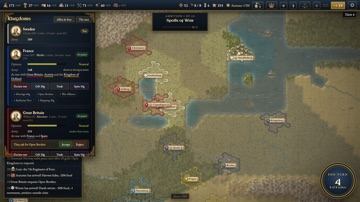
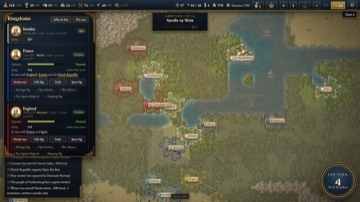
Website: Standards In Smoke's twelve start shots retaken, each start as it stood
Crowns, rulers and towns of their own year in every shot (England and Brandenburg in 1700, Buda the
Turk's in 1683, Stettin Swedish, no Duchy of Milan under the Emperor), and a line saying so.

diff --git a/standards-in-smoke.html b/standards-in-smoke.html
@@ -135,53 +135,53 @@
                       data-caption="The map of Europe: every crown at its own capital, the seas lettered with their old names.">
                 <img src="media/standards-in-smoke/thumbs/11-europe.jpg?v=20261031c" alt="An engraved chart of Europe with the crowns' towns from London to Moscow" loading="lazy">
               </button>
-              <button class="sp-thumb" data-type="image" data-src="media/standards-in-smoke/12-1805.jpg?v=20261031d"
+              <button class="sp-thumb" data-type="image" data-src="media/standards-in-smoke/12-1805.jpg?v=20261104a"
                       data-caption="1805: Austria between France and Russia, the Third Coalition already at war, the Danube running past Vienna.">
-                <img src="media/standards-in-smoke/thumbs/12-1805.jpg?v=20261031d" alt="Central Europe in 1805 with the Kingdoms panel showing who is at war with whom" loading="lazy">
+                <img src="media/standards-in-smoke/thumbs/12-1805.jpg?v=20261104a" alt="Central Europe in 1805 with the Kingdoms panel showing who is at war with whom" loading="lazy">
               </button>
-              <button class="sp-thumb" data-type="image" data-src="media/standards-in-smoke/13-1756.jpg?v=20261031e"
+              <button class="sp-thumb" data-type="image" data-src="media/standards-in-smoke/13-1756.jpg?v=20261104a"
                       data-caption="1756: Frederick the Great's Prussia between Saxony and Austria, at war with France, Maria Theresa and the Saxons.">
-                <img src="media/standards-in-smoke/thumbs/13-1756.jpg?v=20261031e" alt="Prussia in 1756 with the Kingdoms panel naming Frederick II, Louis XV and Maria Theresa" loading="lazy">
+                <img src="media/standards-in-smoke/thumbs/13-1756.jpg?v=20261104a" alt="Prussia in 1756 with the Kingdoms panel naming Frederick II, Louis XV and Maria Theresa" loading="lazy">
               </button>
-              <button class="sp-thumb" data-type="image" data-src="media/standards-in-smoke/14-1700.jpg?v=20261031f"
+              <button class="sp-thumb" data-type="image" data-src="media/standards-in-smoke/14-1700.jpg?v=20261104a"
                       data-caption="1700: Charles XII's Sweden against Denmark across the Sound, while Louis XIV and William III go to war over the Spanish succession.">
-                <img src="media/standards-in-smoke/thumbs/14-1700.jpg?v=20261031f" alt="Sweden and Denmark in 1700 with the Kingdoms panel naming Charles XII, Louis XIV and William III" loading="lazy">
+                <img src="media/standards-in-smoke/thumbs/14-1700.jpg?v=20261104a" alt="Sweden and Denmark in 1700 with the Kingdoms panel naming Charles XII, Louis XIV and William III" loading="lazy">
               </button>
-              <button class="sp-thumb" data-type="image" data-src="media/standards-in-smoke/15-1740.jpg?v=20261101a"
+              <button class="sp-thumb" data-type="image" data-src="media/standards-in-smoke/15-1740.jpg?v=20261104a"
                       data-caption="1740: the young Maria Theresa's Austria between Prussia and France, Silesia already lost to Frederick.">
-                <img src="media/standards-in-smoke/thumbs/15-1740.jpg?v=20261101a" alt="Austria in 1740 with the Kingdoms panel naming Maria Theresa, Frederick II and Louis XV" loading="lazy">
+                <img src="media/standards-in-smoke/thumbs/15-1740.jpg?v=20261104a" alt="Austria in 1740 with the Kingdoms panel naming Maria Theresa, Frederick II and Louis XV" loading="lazy">
               </button>
-              <button class="sp-thumb" data-type="image" data-src="media/standards-in-smoke/24-1718.jpg?v=20261103a"
+              <button class="sp-thumb" data-type="image" data-src="media/standards-in-smoke/24-1718.jpg?v=20261104a"
                       data-caption="1718: Philip V's Spain lands on Victor Amadeus's Sicily and goes to war with the Emperor for Italy, with Britain and France not yet in the war.">
-                <img src="media/standards-in-smoke/thumbs/24-1718.jpg?v=20261103a" alt="Italy in 1718, the Kingdom of Sicily at Turin and Palermo, with the Kingdoms panel naming Philip V, Charles VI and George I" loading="lazy">
+                <img src="media/standards-in-smoke/thumbs/24-1718.jpg?v=20261104a" alt="Italy in 1718, the Kingdom of Sicily at Turin and Palermo, with the Kingdoms panel naming Philip V, Charles VI and George I" loading="lazy">
               </button>
-              <button class="sp-thumb" data-type="image" data-src="media/standards-in-smoke/21-1733.jpg?v=20261102a"
+              <button class="sp-thumb" data-type="image" data-src="media/standards-in-smoke/21-1733.jpg?v=20261104a"
                       data-caption="1733: King Stanisław's Poland with France, Spain and Sardinia at its side, and Austria, Russia and Saxony at war with it over the crown.">
-                <img src="media/standards-in-smoke/thumbs/21-1733.jpg?v=20261102a" alt="Poland-Lithuania in 1733 with the Kingdoms panel naming Stanisław I, Louis XV and Charles VI" loading="lazy">
+                <img src="media/standards-in-smoke/thumbs/21-1733.jpg?v=20261104a" alt="Poland-Lithuania in 1733 with the Kingdoms panel naming Stanisław I, Louis XV and Charles VI" loading="lazy">
               </button>
-              <button class="sp-thumb" data-type="image" data-src="media/standards-in-smoke/18-1812.jpg?v=20261101d"
+              <button class="sp-thumb" data-type="image" data-src="media/standards-in-smoke/18-1812.jpg?v=20261104a"
                       data-caption="1812: the Grande Armée gathered on the Niemen east of Warsaw, with Austria and Prussia marching beside France against Russia.">
-                <img src="media/standards-in-smoke/thumbs/18-1812.jpg?v=20261101d" alt="The Grande Armée camped east of Warsaw in 1812, the Kingdoms panel naming Napoleon, Alexander I and the Prince Regent" loading="lazy">
+                <img src="media/standards-in-smoke/thumbs/18-1812.jpg?v=20261104a" alt="The Grande Armée camped east of Warsaw in 1812, the Kingdoms panel naming Napoleon, Alexander I and the Prince Regent" loading="lazy">
               </button>
-              <button class="sp-thumb" data-type="image" data-src="media/standards-in-smoke/23-1778.jpg?v=20261102a"
+              <button class="sp-thumb" data-type="image" data-src="media/standards-in-smoke/23-1778.jpg?v=20261104a"
                       data-caption="1778: George III's Britain alone against France, its American colonies in revolt, with Spain and the Dutch still weighing their chances.">
-                <img src="media/standards-in-smoke/thumbs/23-1778.jpg?v=20261102a" alt="Britain, France and the Dutch Republic in 1778 with the Kingdoms panel naming George III, Louis XVI and Charles III" loading="lazy">
+                <img src="media/standards-in-smoke/thumbs/23-1778.jpg?v=20261104a" alt="Britain, France and the Dutch Republic in 1778 with the Kingdoms panel naming George III, Louis XVI and Charles III" loading="lazy">
               </button>
-              <button class="sp-thumb" data-type="image" data-src="media/standards-in-smoke/22-1788.jpg?v=20261102a"
+              <button class="sp-thumb" data-type="image" data-src="media/standards-in-smoke/22-1788.jpg?v=20261104a"
                       data-caption="1788: Catherine the Great's Russia at war with the Turk on the Black Sea, the Emperor Joseph at her side and Gustav III's Sweden at her back.">
-                <img src="media/standards-in-smoke/thumbs/22-1788.jpg?v=20261102a" alt="The Black Sea in 1788 with the Kingdoms panel naming Catherine II, Joseph II and Abdul Hamid I" loading="lazy">
+                <img src="media/standards-in-smoke/thumbs/22-1788.jpg?v=20261104a" alt="The Black Sea in 1788 with the Kingdoms panel naming Catherine II, Joseph II and Abdul Hamid I" loading="lazy">
               </button>
-              <button class="sp-thumb" data-type="image" data-src="media/standards-in-smoke/17-1792.jpg?v=20261101c"
+              <button class="sp-thumb" data-type="image" data-src="media/standards-in-smoke/17-1792.jpg?v=20261104a"
                       data-caption="1793: the French Republic under Robespierre, at war with Austria, Prussia and the First Coalition after the King's death.">
-                <img src="media/standards-in-smoke/thumbs/17-1792.jpg?v=20261101c" alt="The French Republic in 1793 with the Kingdoms panel naming Robespierre, Francis II and Frederick William II" loading="lazy">
+                <img src="media/standards-in-smoke/thumbs/17-1792.jpg?v=20261104a" alt="The French Republic in 1793 with the Kingdoms panel naming Robespierre, Francis II and Frederick William II" loading="lazy">
               </button>
-              <button class="sp-thumb" data-type="image" data-src="media/standards-in-smoke/19-1672.jpg?v=20261101f"
+              <button class="sp-thumb" data-type="image" data-src="media/standards-in-smoke/19-1672.jpg?v=20261104a"
                       data-caption="1672: the Dutch Republic under Johan de Witt, with France, England and the Bishop of Münster at war on it and Brandenburg its one friend.">
-                <img src="media/standards-in-smoke/thumbs/19-1672.jpg?v=20261101f" alt="The Dutch Republic in 1672 with the Kingdoms panel naming Johan de Witt, Louis XIV and Charles II" loading="lazy">
+                <img src="media/standards-in-smoke/thumbs/19-1672.jpg?v=20261104a" alt="The Dutch Republic in 1672 with the Kingdoms panel naming Johan de Witt, Louis XIV and Charles II" loading="lazy">
               </button>
-              <button class="sp-thumb" data-type="image" data-src="media/standards-in-smoke/16-1683.jpg?v=20261101e"
+              <button class="sp-thumb" data-type="image" data-src="media/standards-in-smoke/16-1683.jpg?v=20261104a"
                       data-caption="1683: the Grand Vizier Kara Mustafa and the Ottoman army camped before Vienna, with the Emperor's allies in Saxony, Bavaria and Poland beyond.">
-                <img src="media/standards-in-smoke/thumbs/16-1683.jpg?v=20261101e" alt="The Ottoman army besieging Vienna in 1683, the Grand Vizier's regiment card open" loading="lazy">
+                <img src="media/standards-in-smoke/thumbs/16-1683.jpg?v=20261104a" alt="The Ottoman army besieging Vienna in 1683, the Grand Vizier's regiment card open" loading="lazy">
               </button>
               <button class="sp-thumb" data-type="image" data-src="media/standards-in-smoke/20-ships.jpg?v=20261102a"
                       data-caption="Across the Channel: HMS Victory lies off the French coast with two regiments still aboard, while the first goes ashore.">
@@ -234,7 +234,7 @@
           <p class="sp-blurb">A Napoleonic-era strategy game on a hex map. Take one of <strong>twenty-one historical nations</strong>, put cities on the ground, research your way out of the crossbow, and hold a court full of noble houses that are running out of patience with you.</p>
           <dl class="sp-meta">
             <div><dt>All Reviews:</dt><dd id="spReviewSummary">No user reviews</dd></div>
-            <div><dt>Release Date:</dt><dd>In beta &mdash; 12.8, updated 2 November 2026</dd></div>
+            <div><dt>Release Date:</dt><dd>In beta &mdash; 12.8, updated 4 November 2026</dd></div>
             <div><dt>Developer:</dt><dd>Roan Fraese</dd></div>
             <div><dt>Publisher:</dt><dd><a href="index.html">DeadlyDog Productions</a></dd></div>
             <div><dt>Platform:</dt><dd>Any web browser</dd></div>
@@ -289,7 +289,7 @@
       <h2 class="sp-h2">Game Features</h2>
       <ul class="sp-features">
         <li><strong>21 Historical Nations</strong>Each with a real capital, a deep pool of period city names, and a banner colour. Up to twenty AI opponents.</li>
-        <li><strong>A Map of Europe, and Twelve Historical Starts</strong>Play on an engraved chart of the continent, every crown at its real capital under its crowned head of 1680, Louis XIV, Leopold I or the Great Elector, and its rivers and seas under their old names, or begin in 1805 with the Third Coalition already at war with France: Napoleon, George III, Francis II and Alexander I on their thrones, the Grande Armée in the field, and the score counted at the Congress of Vienna in 1815. Or in 1812, with the Grande Armée on the road to Moscow. Or in 1778, when France, Spain and the Dutch went to war with Britain over the American colonies, and Frederick the Great fought his last war, with Austria over Bavaria. Or in 1788, on the eve of the Revolution, with Catherine the Great and the Emperor Joseph at war with the Turk and Gustav III's Sweden at war with Russia. Or begin in 1792, in the wars of the Revolution: Louis XVI's France against Austria and Prussia, Valmy, the King's trial, the Terror and General Bonaparte, to the Peace of Amiens. Or in 1756, in the Seven Years' War: Frederick the Great against France, Austria and the Empress Elizabeth's Russia. Or in 1740, as Frederick seizes Silesia from the young Maria Theresa. Or in 1718, when Philip V's Spain landed in Sicily and the Emperor, Britain, France and the Dutch joined against it, while Charles XII fought his last campaign. Or in 1733, when France, Spain and Sardinia went to war for King Stanisław of Poland against Austria, Russia and Saxony, and Don Carlos took Naples. Or in 1700, with two wars at once: Marlborough and Prince Eugene against Louis XIV, and Charles XII of Sweden against Peter the Great. Or in 1683, with the Grand Vizier's army at the gates of Vienna and John Sobieski riding to relieve it. Or in 1672, the Dutch Republic's Disaster Year, when the dikes were opened against Louis XIV. History moves as it went, and where its wars, peaces and changes of sides concern your crown, they are put to you to accept or refuse. Or play on unknown lands drawn anew each game.</li>
+        <li><strong>A Map of Europe, and Twelve Historical Starts</strong>Play on an engraved chart of the continent, every crown at its real capital under its crowned head of 1680, Louis XIV, Leopold I or the Great Elector, and its rivers and seas under their old names, or begin in 1805 with the Third Coalition already at war with France: Napoleon, George III, Francis II and Alexander I on their thrones, the Grande Armée in the field, and the score counted at the Congress of Vienna in 1815. Or in 1812, with the Grande Armée on the road to Moscow. Or in 1778, when France, Spain and the Dutch went to war with Britain over the American colonies, and Frederick the Great fought his last war, with Austria over Bavaria. Or in 1788, on the eve of the Revolution, with Catherine the Great and the Emperor Joseph at war with the Turk and Gustav III's Sweden at war with Russia. Or begin in 1792, in the wars of the Revolution: Louis XVI's France against Austria and Prussia, Valmy, the King's trial, the Terror and General Bonaparte, to the Peace of Amiens. Or in 1756, in the Seven Years' War: Frederick the Great against France, Austria and the Empress Elizabeth's Russia. Or in 1740, as Frederick seizes Silesia from the young Maria Theresa. Or in 1718, when Philip V's Spain landed in Sicily and the Emperor, Britain, France and the Dutch joined against it, while Charles XII fought his last campaign. Or in 1733, when France, Spain and Sardinia went to war for King Stanisław of Poland against Austria, Russia and Saxony, and Don Carlos took Naples. Or in 1700, with two wars at once: Marlborough and Prince Eugene against Louis XIV, and Charles XII of Sweden against Peter the Great. Or in 1683, with the Grand Vizier's army at the gates of Vienna and John Sobieski riding to relieve it. Or in 1672, the Dutch Republic's Disaster Year, when the dikes were opened against Louis XIV. Each start is Europe as it stood that year: only the crowns that were there, under the names, heads and towns they had, England before the Union, Brandenburg before its crown, the governors who ruled for the Habsburgs. History moves as it went, and where its wars, peaces and changes of sides concern your crown, they are put to you to accept or refuse. Or play on unknown lands drawn anew each game.</li>
         <li><strong>Coalitions and Tempers</strong>Every rival crown has a temper. Grow too great and the crowns that distrust you band together against you; let a rival grow too great and you are asked to join the coalition against it. A lens on the map shows at a glance who stands with you and who against.</li>
         <li><strong>Procedural Hex Maps</strong>Plains, forest, hills, mountain, swamp, rivers, lakes and ocean, on maps from 60&times;40 up.</li>
         <li><strong>Cities That Need Running</strong>Production queues, jobs, tile improvements, border expansion, and costs that scale with every city you add.</li>
